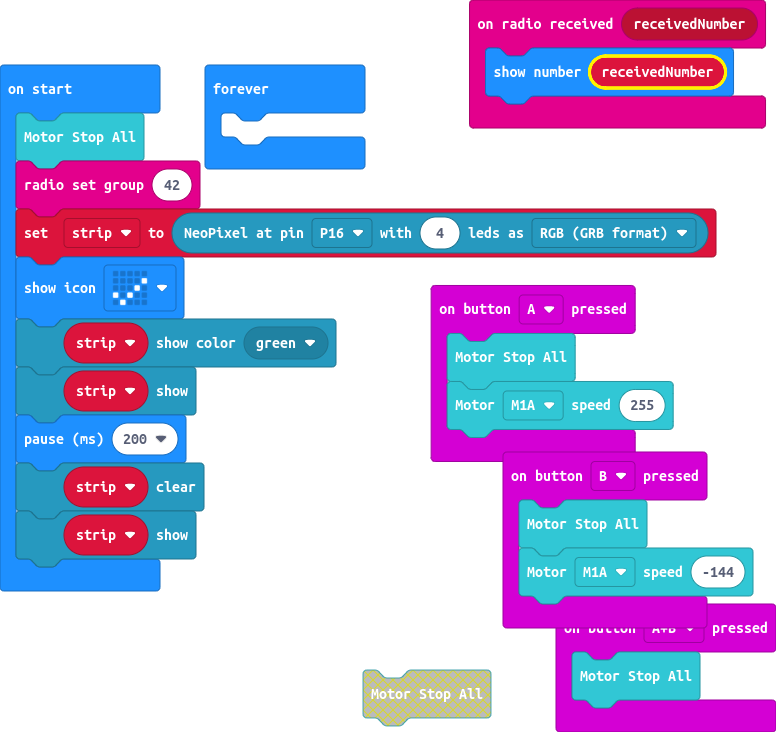
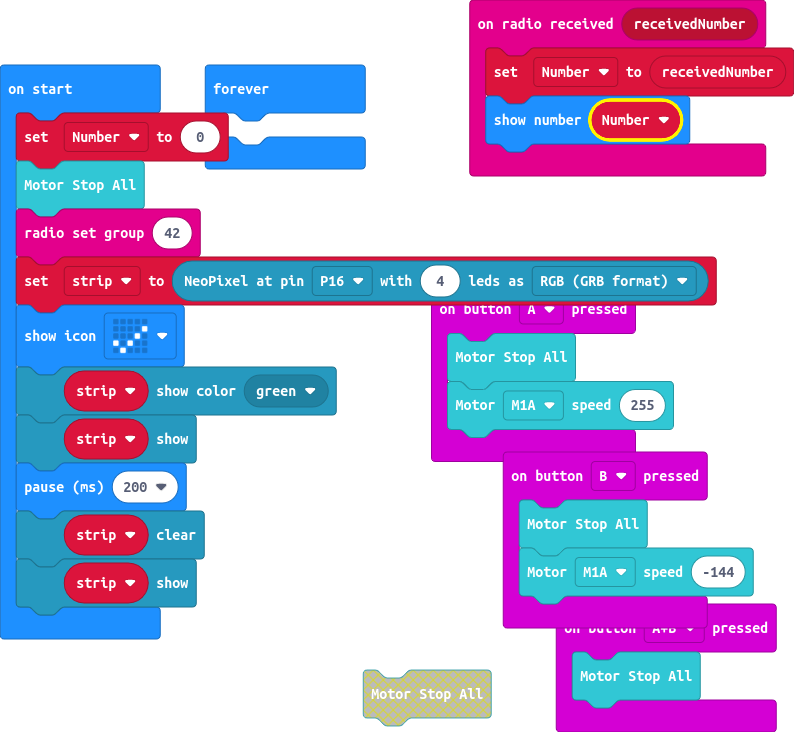
set var tio received number & display

diff --git a/main.ts b/main.ts
@@ -1,5 +1,6 @@
 radio.onReceivedNumber(function (receivedNumber) {
-    basic.showNumber(receivedNumber)
+    Number2 = receivedNumber
+    basic.showNumber(Number2)
 })
 input.onButtonPressed(Button.A, function () {
     robotbit.MotorStopAll()
@@ -12,6 +13,8 @@ input.onButtonPressed(Button.B, function () {
     robotbit.MotorStopAll()
     robotbit.MotorRun(robotbit.Motors.M1A, -144)
 })
+let Number2 = 0
+Number2 = 0
 robotbit.MotorStopAll()
 radio.setGroup(42)
 let strip = neopixel.create(DigitalPin.P16, 4, NeoPixelMode.RGB)
